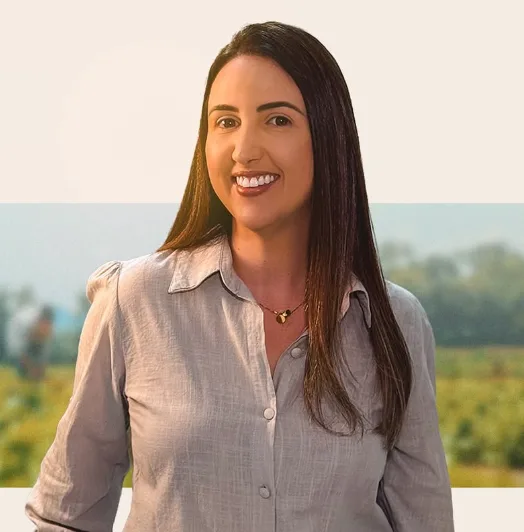
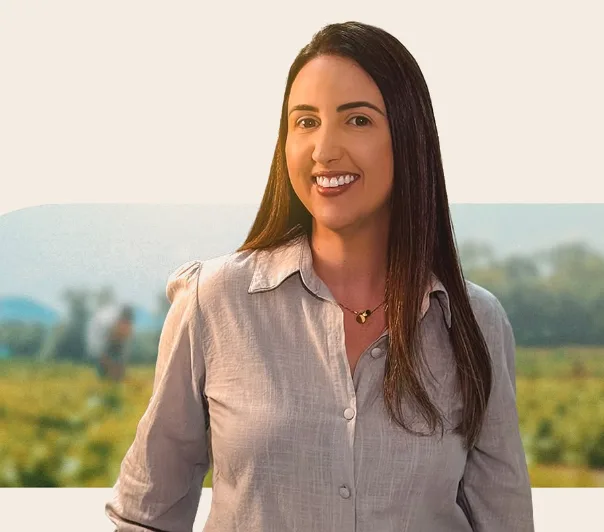
Hero: foto inteira, sem cortar os lados
Recorte mais largo da arte (x=120, 604x532), caixa com a proporção da foto
apoiada na base da hero (sem object-fit cortando as laterais), degradê só
nas pontas e creme do fundo igualado ao #F4EDE3.

diff --git a/index.html b/index.html
@@ -104,7 +104,7 @@ a{color:inherit;text-underline-offset:.2em}
 .hero{position:relative;isolation:isolate;padding-block:0 3rem}
 /* Foto da Kelly (arte do escritório, recortada sem o logo; o creme do fundo foi acertado para #F4EDE3).
    Celular: faixa acima do título, que sobe um pouco sobre o fim esmaecido da foto. */
-.hero{--foto-pos-mobile:58% 14%;--foto-pos-desktop:48% 100%}
+.hero{--foto-pos-mobile:56% 14%;--foto-pos-desktop:50% 100%}
 .hero__foto{position:relative;height:clamp(12.5rem,48vw,20rem);overflow:hidden;pointer-events:none}
 .hero__foto img{width:100%;height:100%;object-fit:cover;object-position:var(--foto-pos-mobile);transform-origin:50% 100%;animation:kf-foto 1.6s var(--ease-out) both}
 .hero__foto::after{content:"";position:absolute;inset:0;background:linear-gradient(180deg,rgba(244,237,227,0) 58%,var(--bg-cream) 100%)}
@@ -139,15 +139,16 @@ a{color:inherit;text-underline-offset:.2em}
 
 @media (min-width:900px){
   /* Desktop: texto à esquerda; a Kelly na metade direita da grade (alinhada ao conteúdo, não à borda da tela).
-     Máscara: laterais e base se dissolvem no creme, sem corte reto. */
+     A caixa tem a proporção da foto (nada é cortado) e fica apoiada na base da hero.
+     Máscara: só as pontas das laterais, a base e o topo se dissolvem no creme; os braços dela ficam inteiros. */
   .hero{display:flex;align-items:center;min-height:min(82vh,44rem);padding-block:5rem 6rem}
   .hero__grid{width:100%;margin-top:0}
-  .hero__texto{max-width:min(33rem,47%)}
-  .hero__foto{position:absolute;z-index:-1;top:0;bottom:0;left:auto;right:max(var(--gutter),calc((100% - 72rem) / 2 + var(--gutter)));
-    width:calc((min(100%,72rem) - 2 * var(--gutter)) * .54);height:auto;
-    -webkit-mask-image:linear-gradient(90deg,transparent 0,#000 20%,#000 84%,transparent 100%),linear-gradient(0deg,transparent 0,#000 28%);
+  .hero__texto{max-width:min(33rem,45%)}
+  .hero__foto{position:absolute;z-index:-1;top:auto;bottom:0;left:auto;right:max(0px,calc((100% - 72rem) / 2 - 1rem));
+    width:calc(min(100%,72rem) * .58);height:auto;aspect-ratio:604/532;
+    -webkit-mask-image:linear-gradient(90deg,transparent 0,#000 12%,#000 92%,transparent 100%),linear-gradient(0deg,transparent 0,#000 30%,#000 94%,transparent 100%);
     -webkit-mask-composite:source-in;
-    mask-image:linear-gradient(90deg,transparent 0,#000 20%,#000 84%,transparent 100%),linear-gradient(0deg,transparent 0,#000 28%);
+    mask-image:linear-gradient(90deg,transparent 0,#000 12%,#000 92%,transparent 100%),linear-gradient(0deg,transparent 0,#000 30%,#000 94%,transparent 100%);
     mask-composite:intersect}
   .hero__foto img{object-position:var(--foto-pos-desktop)}
   .hero__foto::after{content:none}
@@ -190,10 +191,10 @@ a{color:inherit;text-underline-offset:.2em}
 
   <!-- ===================== 1. HERO  (OFERTA: textos marcados mudam por oferta) ===================== -->
   <section class="hero" id="inicio" aria-labelledby="titulo-hero">
-    <!-- Foto da Kelly: img/kelly-hero.webp (recorte 524x532 da arte enviada, sem o logo embutido).
+    <!-- Foto da Kelly: img/kelly-hero.webp (recorte 604x532 da arte enviada, sem o logo embutido).
          As fotos anteriores (hero-*.webp, Pexels) continuam em img/ caso queira voltar. Enquadramento: --foto-pos-* no CSS. -->
     <div class="hero__foto">
-      <img src="img/kelly-hero.webp" width="524" height="532" alt="Kelly Ferreira, advogada" fetchpriority="high" decoding="async">
+      <img src="img/kelly-hero.webp" width="604" height="532" alt="Kelly Ferreira, advogada" fetchpriority="high" decoding="async">
     </div>
     <div class="wrap hero__grid">
       <div class="hero__texto">

diff --git a/README.md b/README.md
@@ -10,7 +10,7 @@ styles.css                   estilos abaixo da dobra
 main.js                      formulário -> planilha, UTMs, Meta Pixel, barra fixa, carta, Lenis, FAQ
 integracao/google-sheets.gs  script do Google que grava os cadastros na planilha
 politica-de-privacidade.html rascunho LGPD (revisar antes de publicar)
-img/kelly-hero.webp          foto da Kelly na hero, celular e desktop (524×532, 25KB)
+img/kelly-hero.webp          foto da Kelly na hero, celular e desktop (604×532, 26KB)
 img/hero-*.webp              foto anterior das mãos (Pexels), fora de uso; pode apagar se a foto da Kelly ficar
 img/favicon.svg              favicon provisório (monograma KF)
 img/apple-touch-icon.png     ícone iOS provisório
@@ -125,9 +125,9 @@ Se mudar o título ou o corpo do hero, confira em 360×640 se o botão "Pedir co
 
 ## Foto da hero
 
-Foto da própria Kelly, tirada da arte enviada pelo escritório (724×532). No recorte `img/kelly-hero.webp`, o logo embutido foi apagado (o logo já está no cabeçalho), o creme do fundo foi acertado para `#F4EDE3` e a borda esquerda foi cortada em x=200.
+Foto da própria Kelly, tirada da arte enviada pelo escritório (724×532). No recorte `img/kelly-hero.webp`, o logo embutido foi apagado (o logo já está no cabeçalho), o creme do fundo foi acertado para `#F4EDE3` e a borda esquerda foi cortada em x=120 (sobra campo dos dois lados dela).
 - **Celular:** faixa no topo da hero, com o título subindo sobre o fim esmaecido da foto.
-- **Desktop:** a foto ocupa a metade direita da grade, alinhada ao conteúdo e não à borda da tela, com a Kelly perto do centro. As laterais e a base se dissolvem no creme (máscara em degradê), sem corte reto.
+- **Desktop:** a foto ocupa a metade direita da grade, alinhada ao conteúdo e não à borda da tela, com a Kelly perto do centro. A caixa tem a proporção da foto e fica apoiada na base da hero, então nada é cortado. Só as pontas das laterais, o topo e a base se dissolvem no creme (máscara em degradê), e os braços dela ficam inteiros.
 - **Entrada:** ao carregar, a foto "assenta" devagar (escala e leve subida, 1,6s). Só usa transform, então não atrasa o LCP, e fica desligada para quem pede menos movimento.
 
 **Resolução:** a arte tem só 532px de altura e, no desktop, aparece ampliada cerca de 1,4×. Para ficar nítida, peça o arquivo original em alta (ideal: 1600px de altura ou mais). Depois, rode o mesmo recorte e troque o arquivo.
